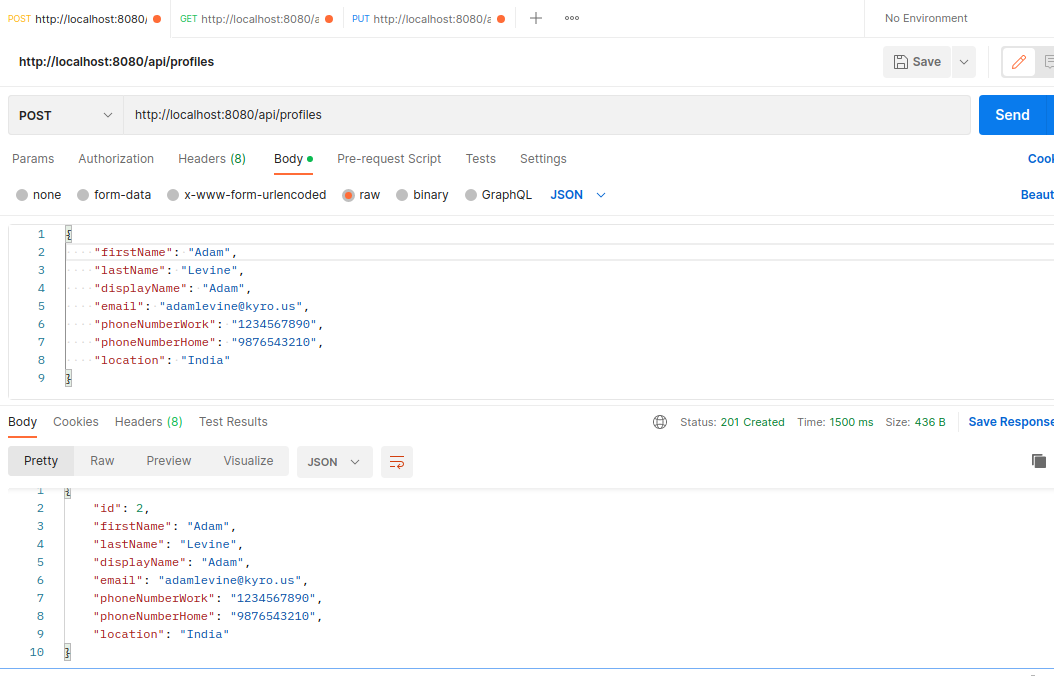
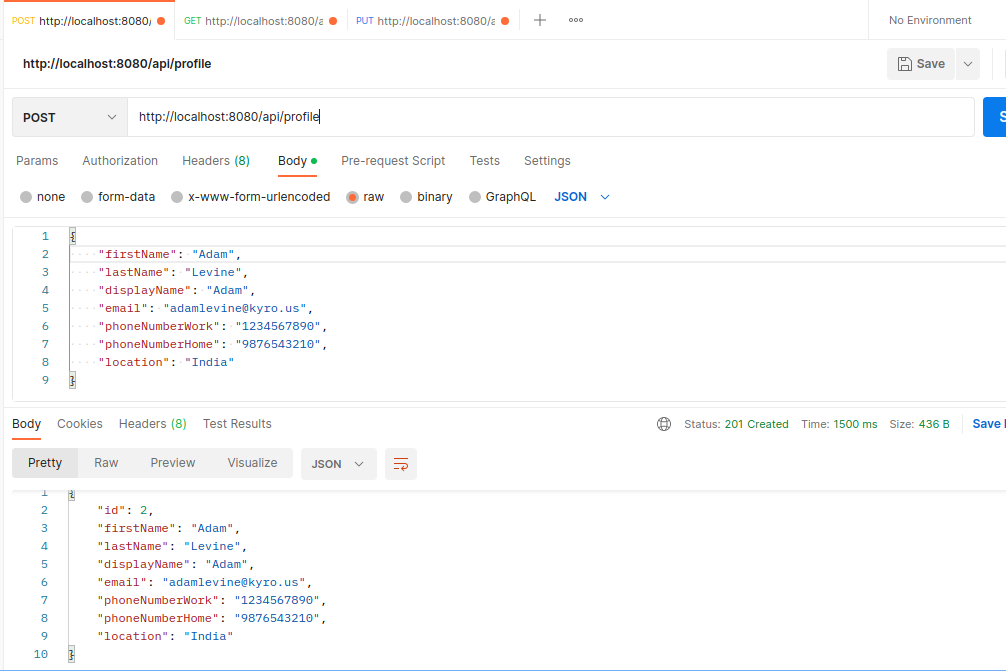
# Changes & update
- update post-api.png
- update api

diff --git a/Readme.md b/Readme.md
@@ -49,7 +49,7 @@ mvn spring-boot:run
 
 4. Now you can use Postman with the following API to test.
 
-> Creating a Profile - POST => http://localhost:8080/api/profiles
+> Creating a Profile - POST => http://localhost:8080/api/profile
 
 > View a Profile - GET => http://localhost:8080/api/profile/{id}
 
